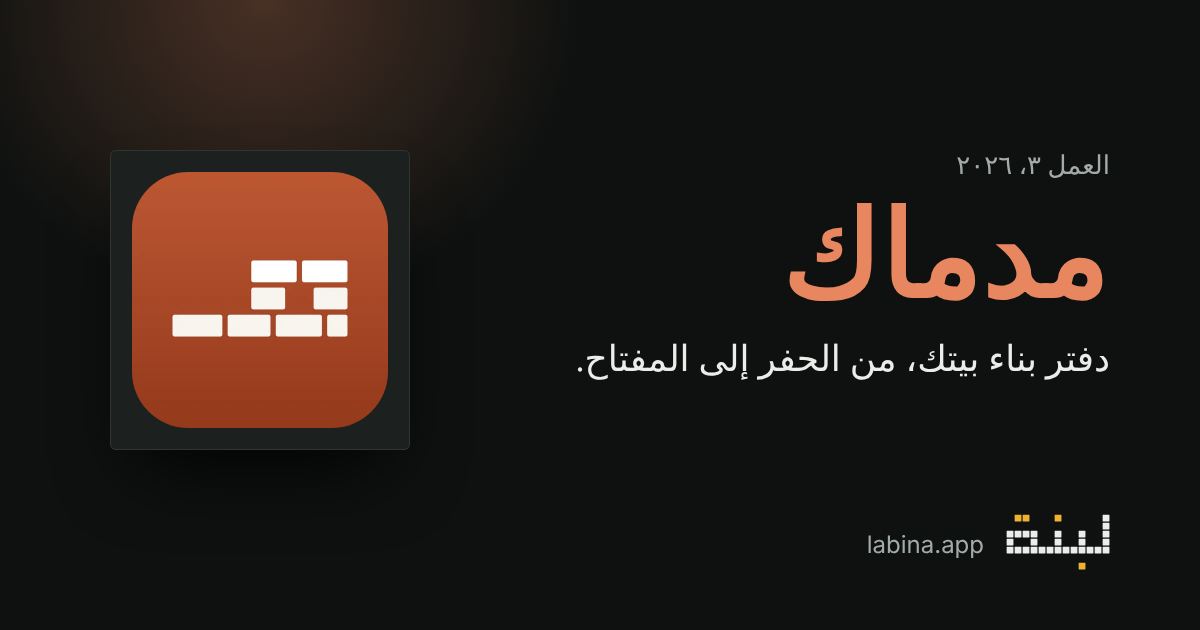
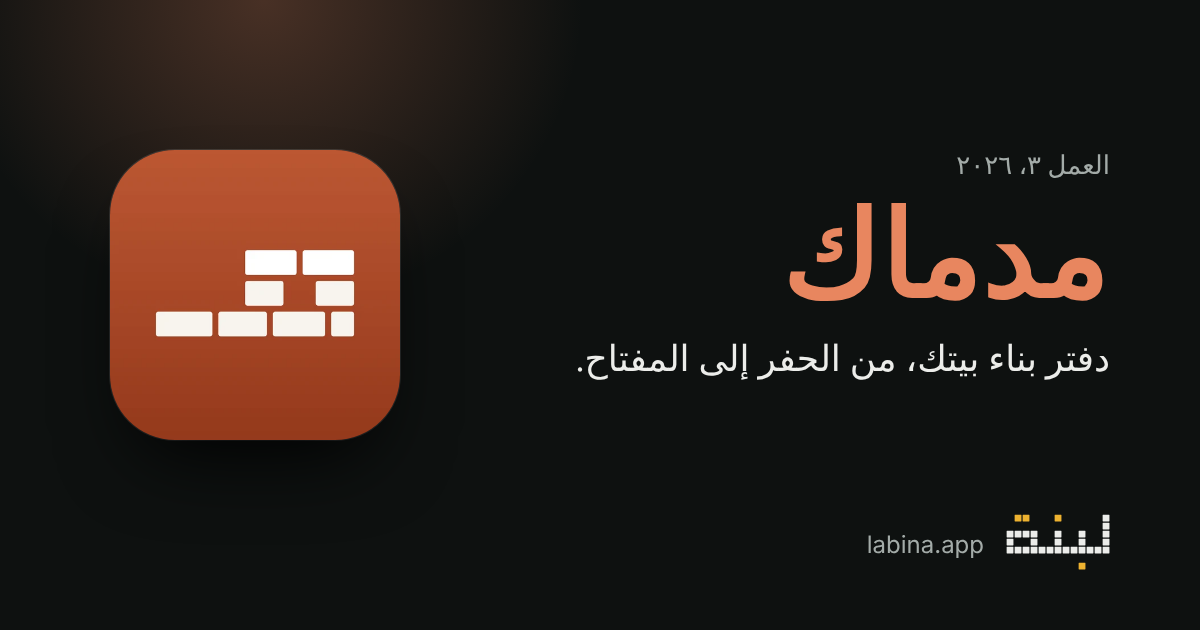
أيقونات المعرض بشكلها الأصلي، والإضاءة تنزل من القنديل على العمل
Claude-Session: https://claude.ai/code/session_017CCF38qqKRL2iNHnrjgebV

Changed region(s): [[0.0925, 0.2111, 0.3392, 0.7238]]

diff --git a/style.css b/style.css
@@ -46,20 +46,23 @@ a{color:inherit}
 .gallery .lede{color:var(--nightink2);max-width:34em;margin:0;font-size:19px}
 .hall{display:grid;grid-template-columns:repeat(3,1fr);gap:clamp(16px,4vw,56px);margin:72px 0 0;padding-bottom:64px}
 .work{position:relative;text-decoration:none;display:flex;flex-direction:column;align-items:center;--app:var(--nightink);--app-lit:var(--nightink)}
-.work .cone{position:absolute;top:-150px;left:50%;width:150%;height:420px;transform:translateX(-50%);background:radial-gradient(ellipse 45% 70% at 50% 0,color-mix(in srgb,var(--app-lit) 26%,transparent),transparent 72%);opacity:0;pointer-events:none;z-index:-1}
-.work .lamp{width:46px;height:6px;border-radius:0 0 6px 6px;background:#2C3331;margin-bottom:34px;position:relative}
-.work .lamp::after{content:"";position:absolute;inset:auto 8px -3px;height:3px;border-radius:2px;background:var(--app-lit);opacity:0;box-shadow:0 0 14px 2px var(--app-lit)}
-.frame{width:min(100%,240px);aspect-ratio:1;padding:clamp(10px,2vw,16px);background:#1C2120;border-radius:4px;box-shadow:0 30px 60px -20px #000,inset 0 0 0 1px #2E3533;filter:brightness(.42) saturate(.6);transition:transform .35s ease}
-.frame img{width:100%;height:100%;border-radius:22%;}
+.work .cone{position:absolute;top:6px;left:50%;width:min(170%,380px);height:290px;transform:translateX(-50%);filter:blur(5px);opacity:0;pointer-events:none;z-index:-1}
+.work .cone .beam{position:absolute;inset:0;clip-path:polygon(43% 0,57% 0,100% 100%,0 100%);background:linear-gradient(to bottom,color-mix(in srgb,var(--app-lit) 75%,transparent),color-mix(in srgb,var(--app-lit) 38%,transparent) 30%,color-mix(in srgb,var(--app-lit) 20%,transparent) 75%,transparent)}
+.work .lamp{width:56px;height:8px;border-radius:2px 2px 10px 10px;background:linear-gradient(#3A4240,#232927);margin-bottom:34px;position:relative}
+.work .lamp::after{content:"";position:absolute;left:8px;right:8px;bottom:-3px;height:4px;border-radius:2px;background:var(--app-lit);opacity:0;box-shadow:0 8px 18px 3px color-mix(in srgb,var(--app-lit) 70%,transparent)}
+.frame{position:relative;width:min(100%,200px);aspect-ratio:1;border-radius:22.4%;box-shadow:0 34px 60px -24px #000,0 0 0 1px #ffffff14;filter:brightness(.42) saturate(.6);transition:transform .35s ease}
+.frame img{width:100%;height:100%;border-radius:inherit}
+.frame::after{content:"";position:absolute;inset:0;border-radius:inherit;box-shadow:inset 0 0 0 1px #ffffff1f;pointer-events:none}
 .work:hover .frame{transform:translateY(-4px)}
-.plaque{margin-top:26px;width:min(100%,240px);font-family:var(--kufi);line-height:1.55;opacity:.0}
+.plaque{margin-top:26px;width:min(100%,220px);text-align:center;font-family:var(--kufi);line-height:1.55;opacity:.0}
 .plaque .no{font-size:12px;color:var(--nightink2)}
 .plaque b{display:block;font-size:22px;color:var(--app-lit)}
 .plaque span{display:block;font-size:13px;color:var(--nightink2)}
 /* lights-on: one orchestrated moment */
 .lit .work .cone{animation:cone .9s ease-out forwards}
 .lit .work .lamp::after{animation:on .5s ease-out forwards}
-.lit .work .frame{animation:wake .9s ease-out forwards}
+.lit .work .frame{animation:wake .9s ease-out forwards,pool .9s ease-out forwards}
+@keyframes pool{to{box-shadow:0 34px 60px -24px #000,0 0 0 1px #ffffff14,0 -30px 80px -40px var(--app-lit)}}
 .lit .work .plaque{animation:on .7s ease-out forwards}
 .lit .work:nth-child(2) *{animation-delay:.45s!important}
 .lit .work:nth-child(3) *{animation-delay:.9s!important}
@@ -121,7 +124,7 @@ a{color:inherit}
 .crumbs{font-family:var(--kufi);font-size:13px;color:var(--nightink2);margin:0}
 .crumbs a{text-decoration:none}
 .exhibit-head{display:grid;grid-template-columns:auto 1fr;gap:36px;align-items:center;margin:36px 0 0}
-.exhibit-head .frame{width:clamp(120px,22vw,200px);filter:none}
+.exhibit-head .frame{width:clamp(110px,18vw,168px);filter:none}
 .exhibit-head .label h1{font-size:clamp(36px,6vw,60px);margin:0;line-height:1.3;color:var(--app-lit)}
 .exhibit-head .label .no,.exhibit-head .label .meta{color:var(--nightink2)}
 .exhibit-head .tag{font-family:var(--naskh);font-size:clamp(18px,2.4vw,22px);margin:6px 0 0;color:var(--nightink)}
@@ -211,11 +214,10 @@ footer.site a:hover{color:var(--ink)}
   .wrap{padding:0 18px}
   .bar nav{gap:14px}
   .hall{grid-template-columns:1fr;gap:56px;margin-top:56px}
-  .work{display:grid;grid-template-columns:120px 1fr;align-items:center;gap:20px;justify-items:start}
-  .work .lamp{display:none}
-  .work .cone{top:-80px;left:60px;width:260px;height:260px}
-  .frame{width:120px}
-  .plaque{margin-top:0}
+  .work{display:grid;grid-template-columns:104px 1fr;align-items:center;gap:20px;justify-items:start}
+  .work .lamp,.work .cone{display:none}
+  .frame{width:104px}
+  .plaque{margin-top:0;text-align:right}
   .exhibit-head{grid-template-columns:1fr;gap:20px}
   .strip{padding-inline:18px;margin-inline:-18px;gap:14px;scroll-padding-inline:18px}
   .strip figure{flex-basis:58vw}

diff --git a/index.html b/index.html
@@ -19,7 +19,7 @@
 <link rel="icon" href="favicon.svg" type="image/svg+xml">
 <link rel="apple-touch-icon" href="assets/labina-180.png">
 <link rel="preconnect" href="https://fonts.googleapis.com"><link rel="preconnect" href="https://fonts.gstatic.com" crossorigin><link href="https://fonts.googleapis.com/css2?family=Noto+Kufi+Arabic:wght@500;600;700&family=Noto+Naskh+Arabic:wght@400;600;700&display=swap" rel="stylesheet">
-<link rel="stylesheet" href="style.css?v=d98d8faa">
+<link rel="stylesheet" href="style.css?v=2388017c">
 <script>document.documentElement.classList.remove('no-js')</script>
 </head>
 <body>
@@ -35,17 +35,17 @@
     <p class="lede">لبنة استوديو صغير يصنع تطبيقات عربية لآيفون وأندرويد. ثلاثة أعمال معروضة اليوم، والجدار يتّسع لما بعدها.</p>
     <div class="hall">
     <a class="work" href="mizan/" style="--app-lit:var(--mizan-lit)">
-      <i class="cone" aria-hidden="true"></i><i class="lamp" aria-hidden="true"></i>
+      <i class="cone" aria-hidden="true"><i class="beam"></i></i><i class="lamp" aria-hidden="true"></i>
       <div class="frame"><img src="assets/mizan-icon.webp" width="512" height="512" alt=""></div>
       <span class="plaque"><span class="no">العمل ١، ٢٠٢٦</span><b>ميزان</b><span>الصق رسالة البنك، واعرف كم تقدر تصرف اليوم.</span></span>
     </a>
     <a class="work" href="sana/" style="--app-lit:var(--sana-lit)">
-      <i class="cone" aria-hidden="true"></i><i class="lamp" aria-hidden="true"></i>
+      <i class="cone" aria-hidden="true"><i class="beam"></i></i><i class="lamp" aria-hidden="true"></i>
       <div class="frame"><img src="assets/sana-icon.webp" width="512" height="512" alt=""></div>
       <span class="plaque"><span class="no">العمل ٢، ٢٠٢٦</span><b>سنا</b><span>أسماء الله الحسنى: معناها وشواهدها ونصيبك منها.</span></span>
     </a>
     <a class="work" href="midmak/" style="--app-lit:var(--midmak-lit)">
-      <i class="cone" aria-hidden="true"></i><i class="lamp" aria-hidden="true"></i>
+      <i class="cone" aria-hidden="true"><i class="beam"></i></i><i class="lamp" aria-hidden="true"></i>
       <div class="frame"><img src="assets/midmak-icon.webp" width="512" height="512" alt=""></div>
       <span class="plaque"><span class="no">العمل ٣، ٢٠٢٦</span><b>مدماك</b><span>دفتر بناء بيتك، من الحفر إلى المفتاح.</span></span>
     </a>

diff --git a/midmak/privacy/index.html b/midmak/privacy/index.html
@@ -19,7 +19,7 @@
 <link rel="icon" href="../../favicon.svg" type="image/svg+xml">
 <link rel="apple-touch-icon" href="../../assets/labina-180.png">
 <link rel="preconnect" href="https://fonts.googleapis.com"><link rel="preconnect" href="https://fonts.gstatic.com" crossorigin><link href="https://fonts.googleapis.com/css2?family=Noto+Kufi+Arabic:wght@500;600;700&family=Noto+Naskh+Arabic:wght@400;600;700&display=swap" rel="stylesheet">
-<link rel="stylesheet" href="../../style.css?v=d98d8faa">
+<link rel="stylesheet" href="../../style.css?v=2388017c">
 <script>document.documentElement.classList.remove('no-js')</script>
 </head>
 <body style="--app:var(--midmak);--app-lit:var(--midmak-lit)">

diff --git a/midmak/support/index.html b/midmak/support/index.html
@@ -19,7 +19,7 @@
 <link rel="icon" href="../../favicon.svg" type="image/svg+xml">
 <link rel="apple-touch-icon" href="../../assets/labina-180.png">
 <link rel="preconnect" href="https://fonts.googleapis.com"><link rel="preconnect" href="https://fonts.gstatic.com" crossorigin><link href="https://fonts.googleapis.com/css2?family=Noto+Kufi+Arabic:wght@500;600;700&family=Noto+Naskh+Arabic:wght@400;600;700&display=swap" rel="stylesheet">
-<link rel="stylesheet" href="../../style.css?v=d98d8faa">
+<link rel="stylesheet" href="../../style.css?v=2388017c">
 <script>document.documentElement.classList.remove('no-js')</script>
 </head>
 <body style="--app:var(--midmak);--app-lit:var(--midmak-lit)">

diff --git a/midmak/terms/index.html b/midmak/terms/index.html
@@ -19,7 +19,7 @@
 <link rel="icon" href="../../favicon.svg" type="image/svg+xml">
 <link rel="apple-touch-icon" href="../../assets/labina-180.png">
 <link rel="preconnect" href="https://fonts.googleapis.com"><link rel="preconnect" href="https://fonts.gstatic.com" crossorigin><link href="https://fonts.googleapis.com/css2?family=Noto+Kufi+Arabic:wght@500;600;700&family=Noto+Naskh+Arabic:wght@400;600;700&display=swap" rel="stylesheet">
-<link rel="stylesheet" href="../../style.css?v=d98d8faa">
+<link rel="stylesheet" href="../../style.css?v=2388017c">
 <script>document.documentElement.classList.remove('no-js')</script>
 </head>
 <body style="--app:var(--midmak);--app-lit:var(--midmak-lit)">

diff --git a/mizan/privacy/index.html b/mizan/privacy/index.html
@@ -19,7 +19,7 @@
 <link rel="icon" href="../../favicon.svg" type="image/svg+xml">
 <link rel="apple-touch-icon" href="../../assets/labina-180.png">
 <link rel="preconnect" href="https://fonts.googleapis.com"><link rel="preconnect" href="https://fonts.gstatic.com" crossorigin><link href="https://fonts.googleapis.com/css2?family=Noto+Kufi+Arabic:wght@500;600;700&family=Noto+Naskh+Arabic:wght@400;600;700&display=swap" rel="stylesheet">
-<link rel="stylesheet" href="../../style.css?v=d98d8faa">
+<link rel="stylesheet" href="../../style.css?v=2388017c">
 <script>document.documentElement.classList.remove('no-js')</script>
 </head>
 <body style="--app:var(--mizan);--app-lit:var(--mizan-lit)">

diff --git a/mizan/support/index.html b/mizan/support/index.html
@@ -19,7 +19,7 @@
 <link rel="icon" href="../../favicon.svg" type="image/svg+xml">
 <link rel="apple-touch-icon" href="../../assets/labina-180.png">
 <link rel="preconnect" href="https://fonts.googleapis.com"><link rel="preconnect" href="https://fonts.gstatic.com" crossorigin><link href="https://fonts.googleapis.com/css2?family=Noto+Kufi+Arabic:wght@500;600;700&family=Noto+Naskh+Arabic:wght@400;600;700&display=swap" rel="stylesheet">
-<link rel="stylesheet" href="../../style.css?v=d98d8faa">
+<link rel="stylesheet" href="../../style.css?v=2388017c">
 <script>document.documentElement.classList.remove('no-js')</script>
 </head>
 <body style="--app:var(--mizan);--app-lit:var(--mizan-lit)">

diff --git a/mizan/terms/index.html b/mizan/terms/index.html
@@ -19,7 +19,7 @@
 <link rel="icon" href="../../favicon.svg" type="image/svg+xml">
 <link rel="apple-touch-icon" href="../../assets/labina-180.png">
 <link rel="preconnect" href="https://fonts.googleapis.com"><link rel="preconnect" href="https://fonts.gstatic.com" crossorigin><link href="https://fonts.googleapis.com/css2?family=Noto+Kufi+Arabic:wght@500;600;700&family=Noto+Naskh+Arabic:wght@400;600;700&display=swap" rel="stylesheet">
-<link rel="stylesheet" href="../../style.css?v=d98d8faa">
+<link rel="stylesheet" href="../../style.css?v=2388017c">
 <script>document.documentElement.classList.remove('no-js')</script>
 </head>
 <body style="--app:var(--mizan);--app-lit:var(--mizan-lit)">

diff --git a/sana/accessibility/index.html b/sana/accessibility/index.html
@@ -19,7 +19,7 @@
 <link rel="icon" href="../../favicon.svg" type="image/svg+xml">
 <link rel="apple-touch-icon" href="../../assets/labina-180.png">
 <link rel="preconnect" href="https://fonts.googleapis.com"><link rel="preconnect" href="https://fonts.gstatic.com" crossorigin><link href="https://fonts.googleapis.com/css2?family=Noto+Kufi+Arabic:wght@500;600;700&family=Noto+Naskh+Arabic:wght@400;600;700&display=swap" rel="stylesheet">
-<link rel="stylesheet" href="../../style.css?v=d98d8faa">
+<link rel="stylesheet" href="../../style.css?v=2388017c">
 <script>document.documentElement.classList.remove('no-js')</script>
 </head>
 <body style="--app:var(--sana);--app-lit:var(--sana-lit)">

diff --git a/sana/privacy/index.html b/sana/privacy/index.html
@@ -19,7 +19,7 @@
 <link rel="icon" href="../../favicon.svg" type="image/svg+xml">
 <link rel="apple-touch-icon" href="../../assets/labina-180.png">
 <link rel="preconnect" href="https://fonts.googleapis.com"><link rel="preconnect" href="https://fonts.gstatic.com" crossorigin><link href="https://fonts.googleapis.com/css2?family=Noto+Kufi+Arabic:wght@500;600;700&family=Noto+Naskh+Arabic:wght@400;600;700&display=swap" rel="stylesheet">
-<link rel="stylesheet" href="../../style.css?v=d98d8faa">
+<link rel="stylesheet" href="../../style.css?v=2388017c">
 <script>document.documentElement.classList.remove('no-js')</script>
 </head>
 <body style="--app:var(--sana);--app-lit:var(--sana-lit)">

diff --git a/sana/support/index.html b/sana/support/index.html
@@ -19,7 +19,7 @@
 <link rel="icon" href="../../favicon.svg" type="image/svg+xml">
 <link rel="apple-touch-icon" href="../../assets/labina-180.png">
 <link rel="preconnect" href="https://fonts.googleapis.com"><link rel="preconnect" href="https://fonts.gstatic.com" crossorigin><link href="https://fonts.googleapis.com/css2?family=Noto+Kufi+Arabic:wght@500;600;700&family=Noto+Naskh+Arabic:wght@400;600;700&display=swap" rel="stylesheet">
-<link rel="stylesheet" href="../../style.css?v=d98d8faa">
+<link rel="stylesheet" href="../../style.css?v=2388017c">
 <script>document.documentElement.classList.remove('no-js')</script>
 </head>
 <body style="--app:var(--sana);--app-lit:var(--sana-lit)">

diff --git a/sana/terms/index.html b/sana/terms/index.html
@@ -19,7 +19,7 @@
 <link rel="icon" href="../../favicon.svg" type="image/svg+xml">
 <link rel="apple-touch-icon" href="../../assets/labina-180.png">
 <link rel="preconnect" href="https://fonts.googleapis.com"><link rel="preconnect" href="https://fonts.gstatic.com" crossorigin><link href="https://fonts.googleapis.com/css2?family=Noto+Kufi+Arabic:wght@500;600;700&family=Noto+Naskh+Arabic:wght@400;600;700&display=swap" rel="stylesheet">
-<link rel="stylesheet" href="../../style.css?v=d98d8faa">
+<link rel="stylesheet" href="../../style.css?v=2388017c">
 <script>document.documentElement.classList.remove('no-js')</script>
 </head>
 <body style="--app:var(--sana);--app-lit:var(--sana-lit)">
